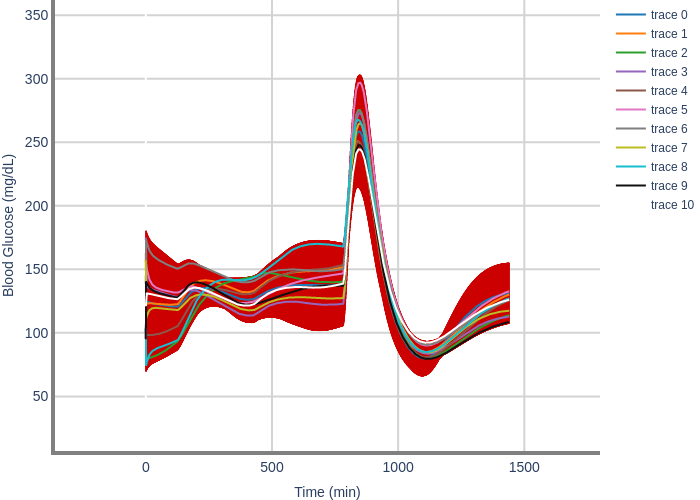
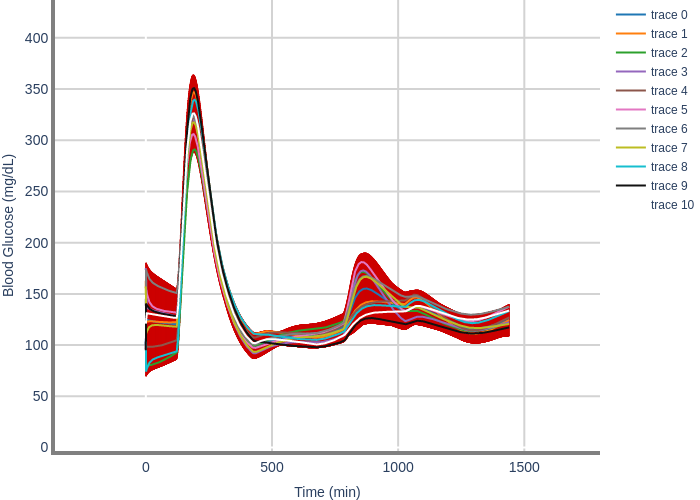
add log file

Changed region(s): [[0.03, 0.15, 0.87, 0.75], [0.03, 0.0, 0.84, 0.09]]

diff --git a/pump/verification.py b/pump/verification.py
@@ -28,6 +28,7 @@ from typing import Any
 from functools import partial
 import time
 import gzip
+import fcntl
 
 
 # TODO: this function is a bit of a hack
@@ -248,9 +249,15 @@ def save_scenario_runtime(scenario, output_dir, runtime):
     with open(os.path.join(log_dir, 'runtime.txt'), 'w') as f:
         f.write(str(runtime))
 
+def append_scenario_to_log(scenario, output_dir):
+    with open(os.path.join(output_dir, 'scenarios.txt'), 'a+') as f:
+        fcntl.lockf(f, fcntl.LOCK_EX)
+        f.write(f'{hash(scenario)}\n')
+        fcntl.lockf(f, fcntl.LOCK_UN)
+
 def run_verification_scenario(scenario, output_dir):
     start_time = time.time()
-    res = verify_multi_meal_scenario(scenario, {'sim_trace_num': 300})
+    res = verify_multi_meal_scenario(scenario, {'sim_trace_num': 10})
     if res.type == ResultType.OK:
         traces = res.payload
         safety_results = evaluate_safety_constraint(traces, 'G', lambda glucose: AGP_safety(glucose))
@@ -260,6 +267,7 @@ def run_verification_scenario(scenario, output_dir):
     end_time = time.time()
     runtime = end_time - start_time
     save_scenario_runtime(scenario, output_dir, runtime)
+    append_scenario_to_log(scenario, output_dir)
 
 def sigint(signum, frame):
     os.kill(0, signal.SIGKILL)
@@ -365,12 +373,24 @@ def debug_sim(output_dir, result_dir, sim_idx):
     fig = plot_variable(traces, 'G', show=False)
     fig.write_image(os.path.join(output_dir, result_dir, 'debug', f'sim_{sim_idx}', 'plot.png'))
 
+def get_existing_scenario_hashes(output_dir):
+    try:
+        with open(os.path.join(output_dir, 'scenarios.txt'), 'r+') as f:
+            fcntl.lockf(f, fcntl.LOCK_SH)
+            lines = f.readlines()
+            fcntl.lockf(f, fcntl.LOCK_UN)
+    except FileNotFoundError:
+        lines = []
+    hashes = [int(line.strip()) for line in lines]
+    return hashes
+
 def get_scenarios_to_run(output_dir, node_count, node_idx):
     scenarios = gen_verification_scenarios()
     np.random.shuffle(scenarios)
     scenarios = [scenario for i, scenario in enumerate(scenarios) if i % node_count == node_idx]
-    existing = set(load_scenarios(output_dir))
-    scenarios = [scenario for scenario in scenarios if scenario not in existing]
+    existing = set(get_existing_scenario_hashes(output_dir))
+    scenarios = [scenario for scenario in scenarios if hash(scenario) not in existing]
+    print(len(scenarios))
     return scenarios
 
 def verify_wrapper():
